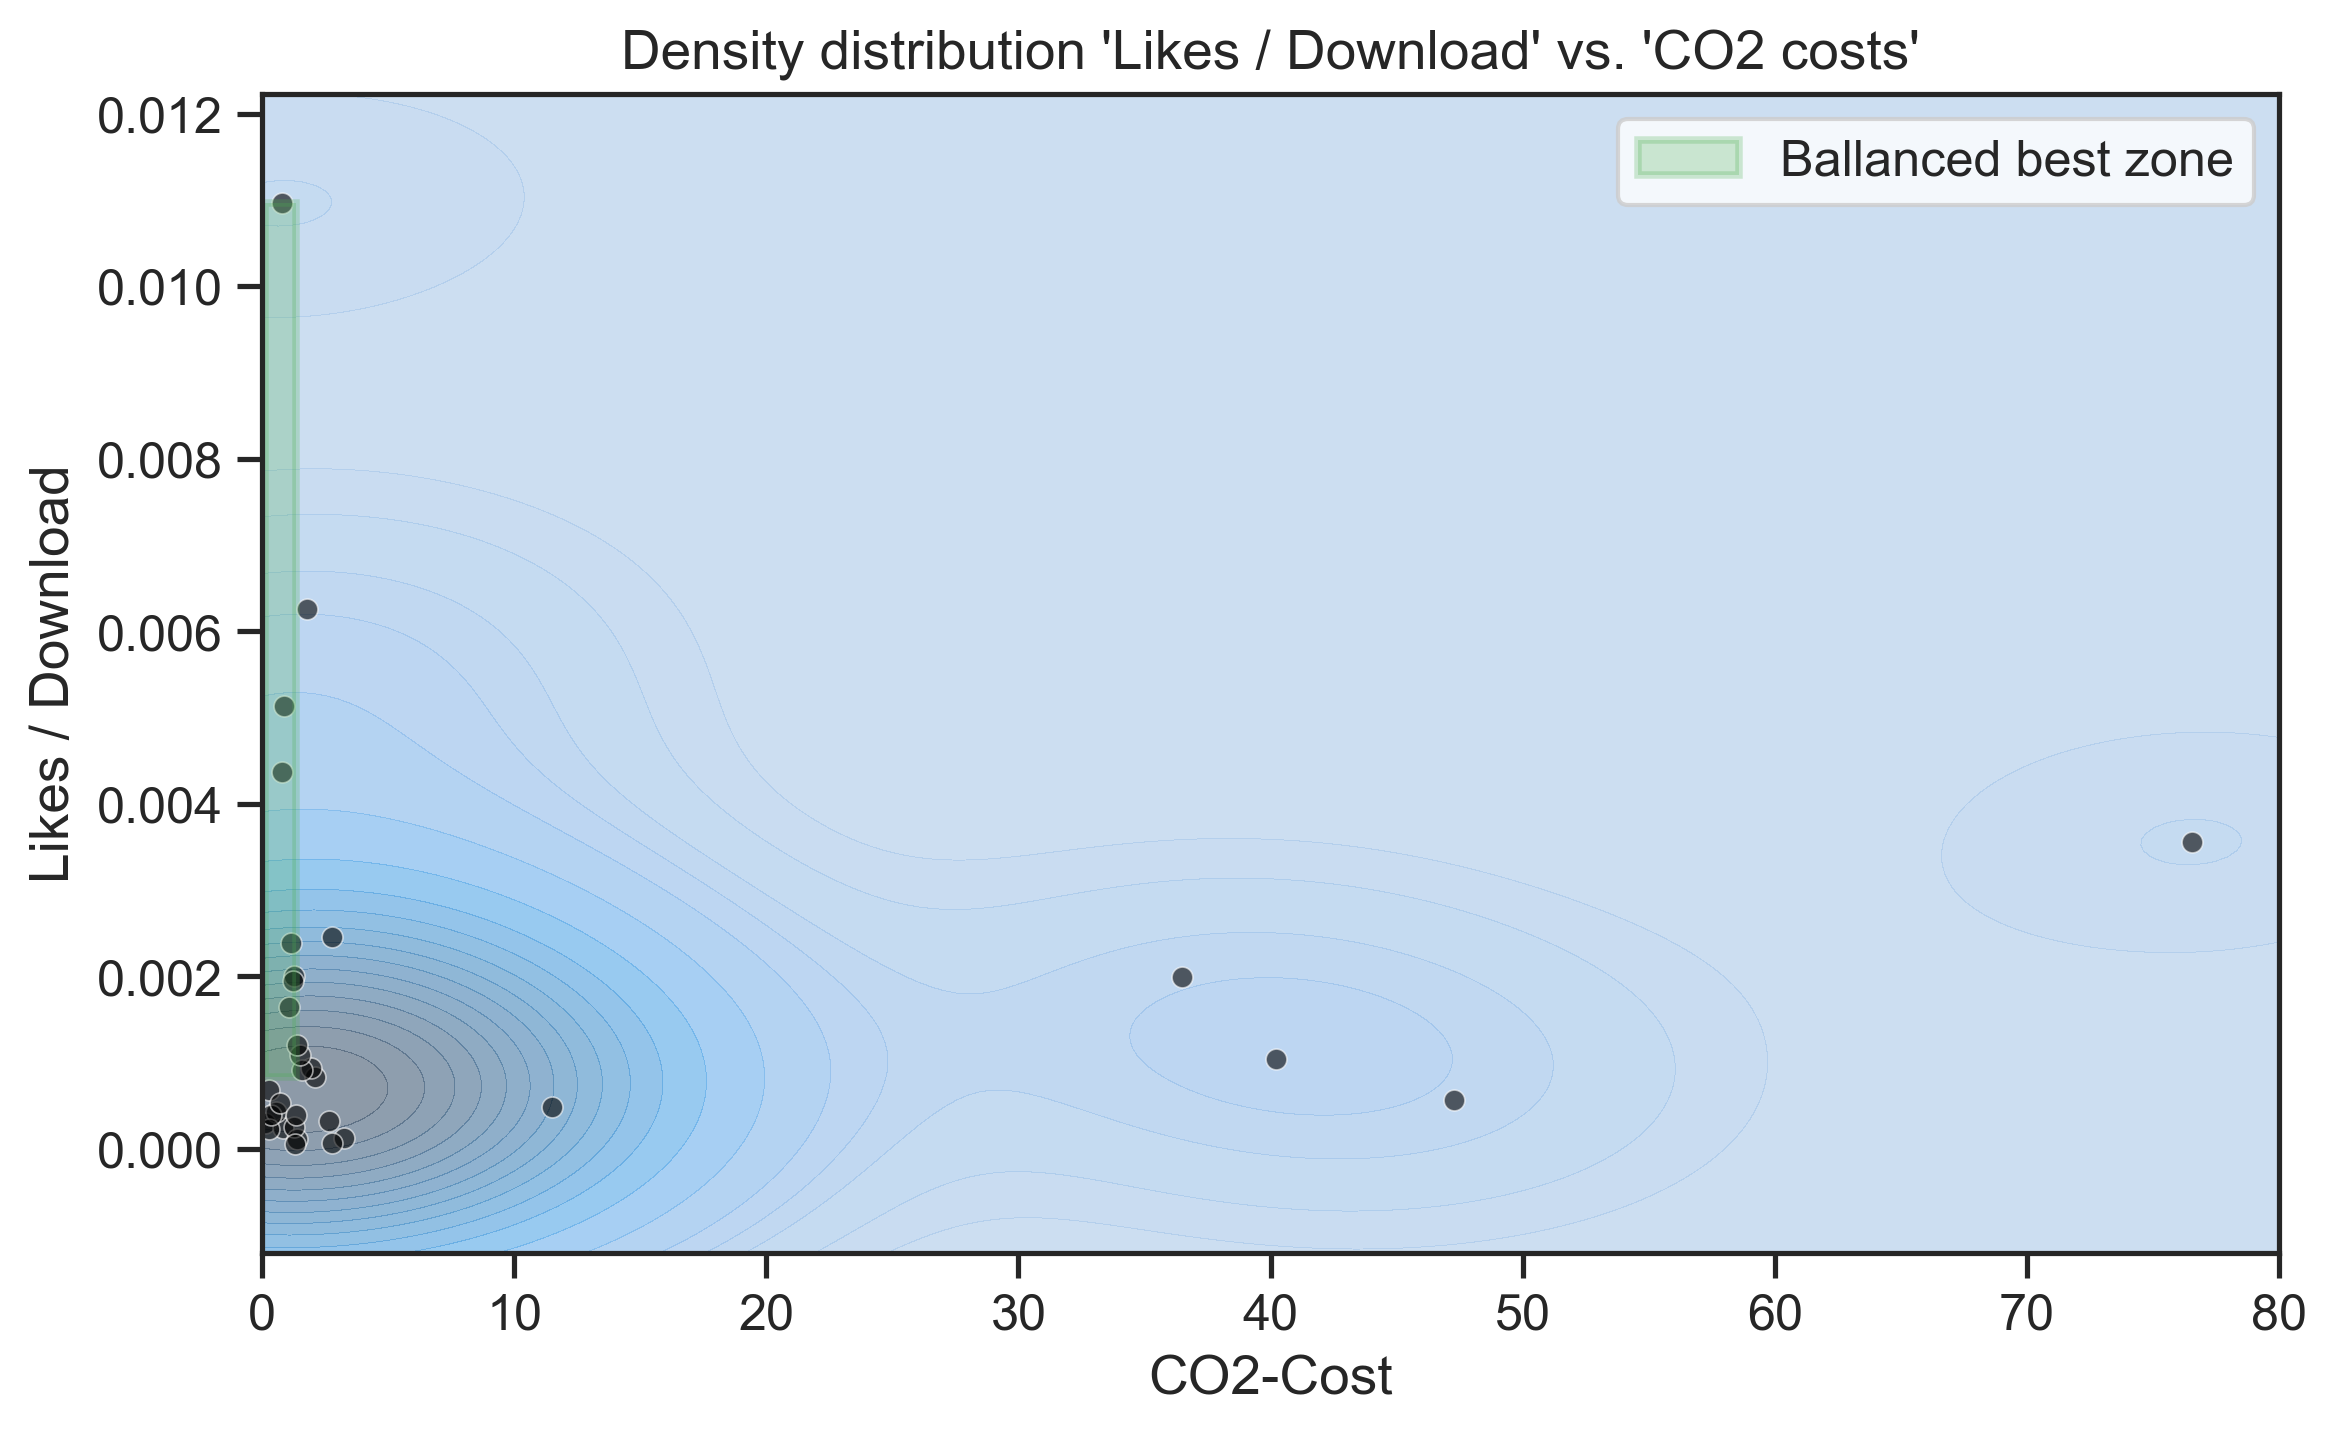
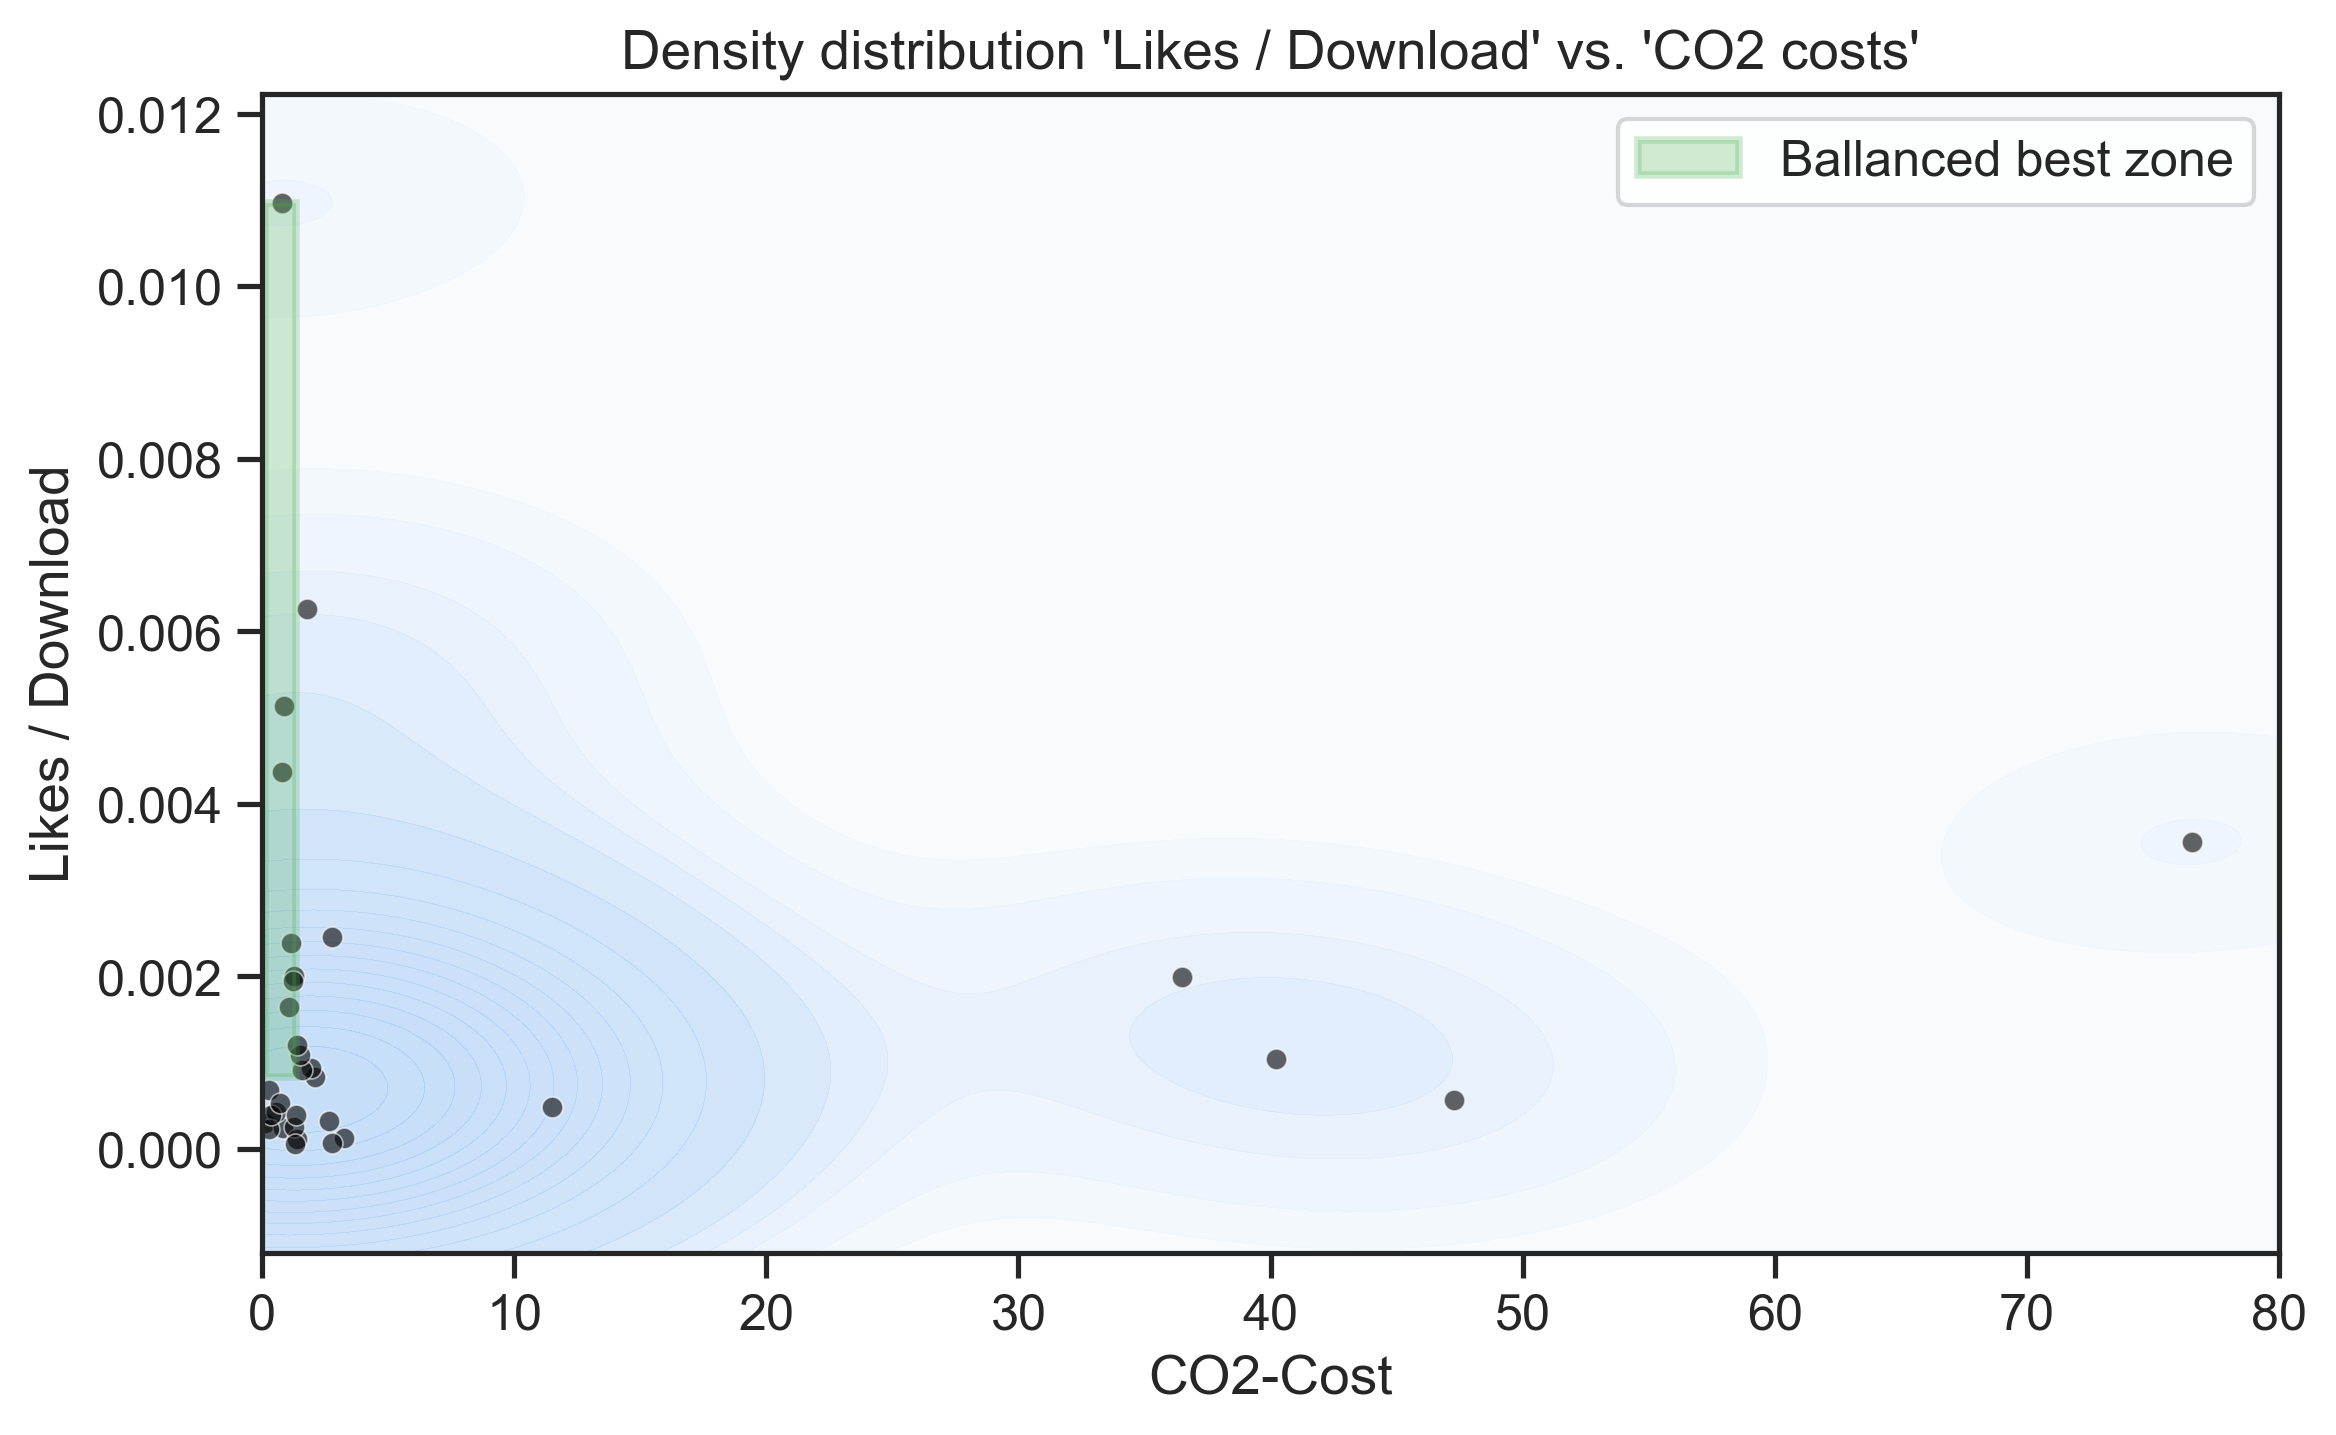
adjusted color

diff --git a/density_plot.py b/density_plot.py
@@ -2,7 +2,8 @@ import pandas as pd
 import seaborn as sns
 import matplotlib.pyplot as plt
 import matplotlib.patches as patches
-
+import numpy as np
+from matplotlib.colors import LinearSegmentedColormap
 
 df = pd.read_csv('df_joined_clean.csv')
 # print(df.shape)
@@ -20,6 +21,15 @@ sns.set_theme(style="ticks", palette="pastel", font_scale=1.1)
 
 blue = "#A1C9F4"
 
+white_to_blue = LinearSegmentedColormap.from_list(
+    "white_to_blue",
+    [
+        (0.0, "#F8FBFE"),   # fast weiß (aber nicht ganz)
+        (0.1, "#D6E7FA"),   # hellblau bleibt länger
+        (0.2, "#B4D3F7"),   # mittleres Pastellblau
+        (1.0, blue),        # kräftiges Blau im Zentrum
+    ]
+)
 # Density plot with scatter overlay
 
 plt.figure(figsize=(8, 5))
@@ -27,7 +37,7 @@ sns.kdeplot(
     x=df["co₂ cost"],
     y=df["likes_per_download"],
     fill=True,
-    color=blue,
+    cmap=white_to_blue,
     alpha=0.6,
     levels=20,
     thresh=0,
